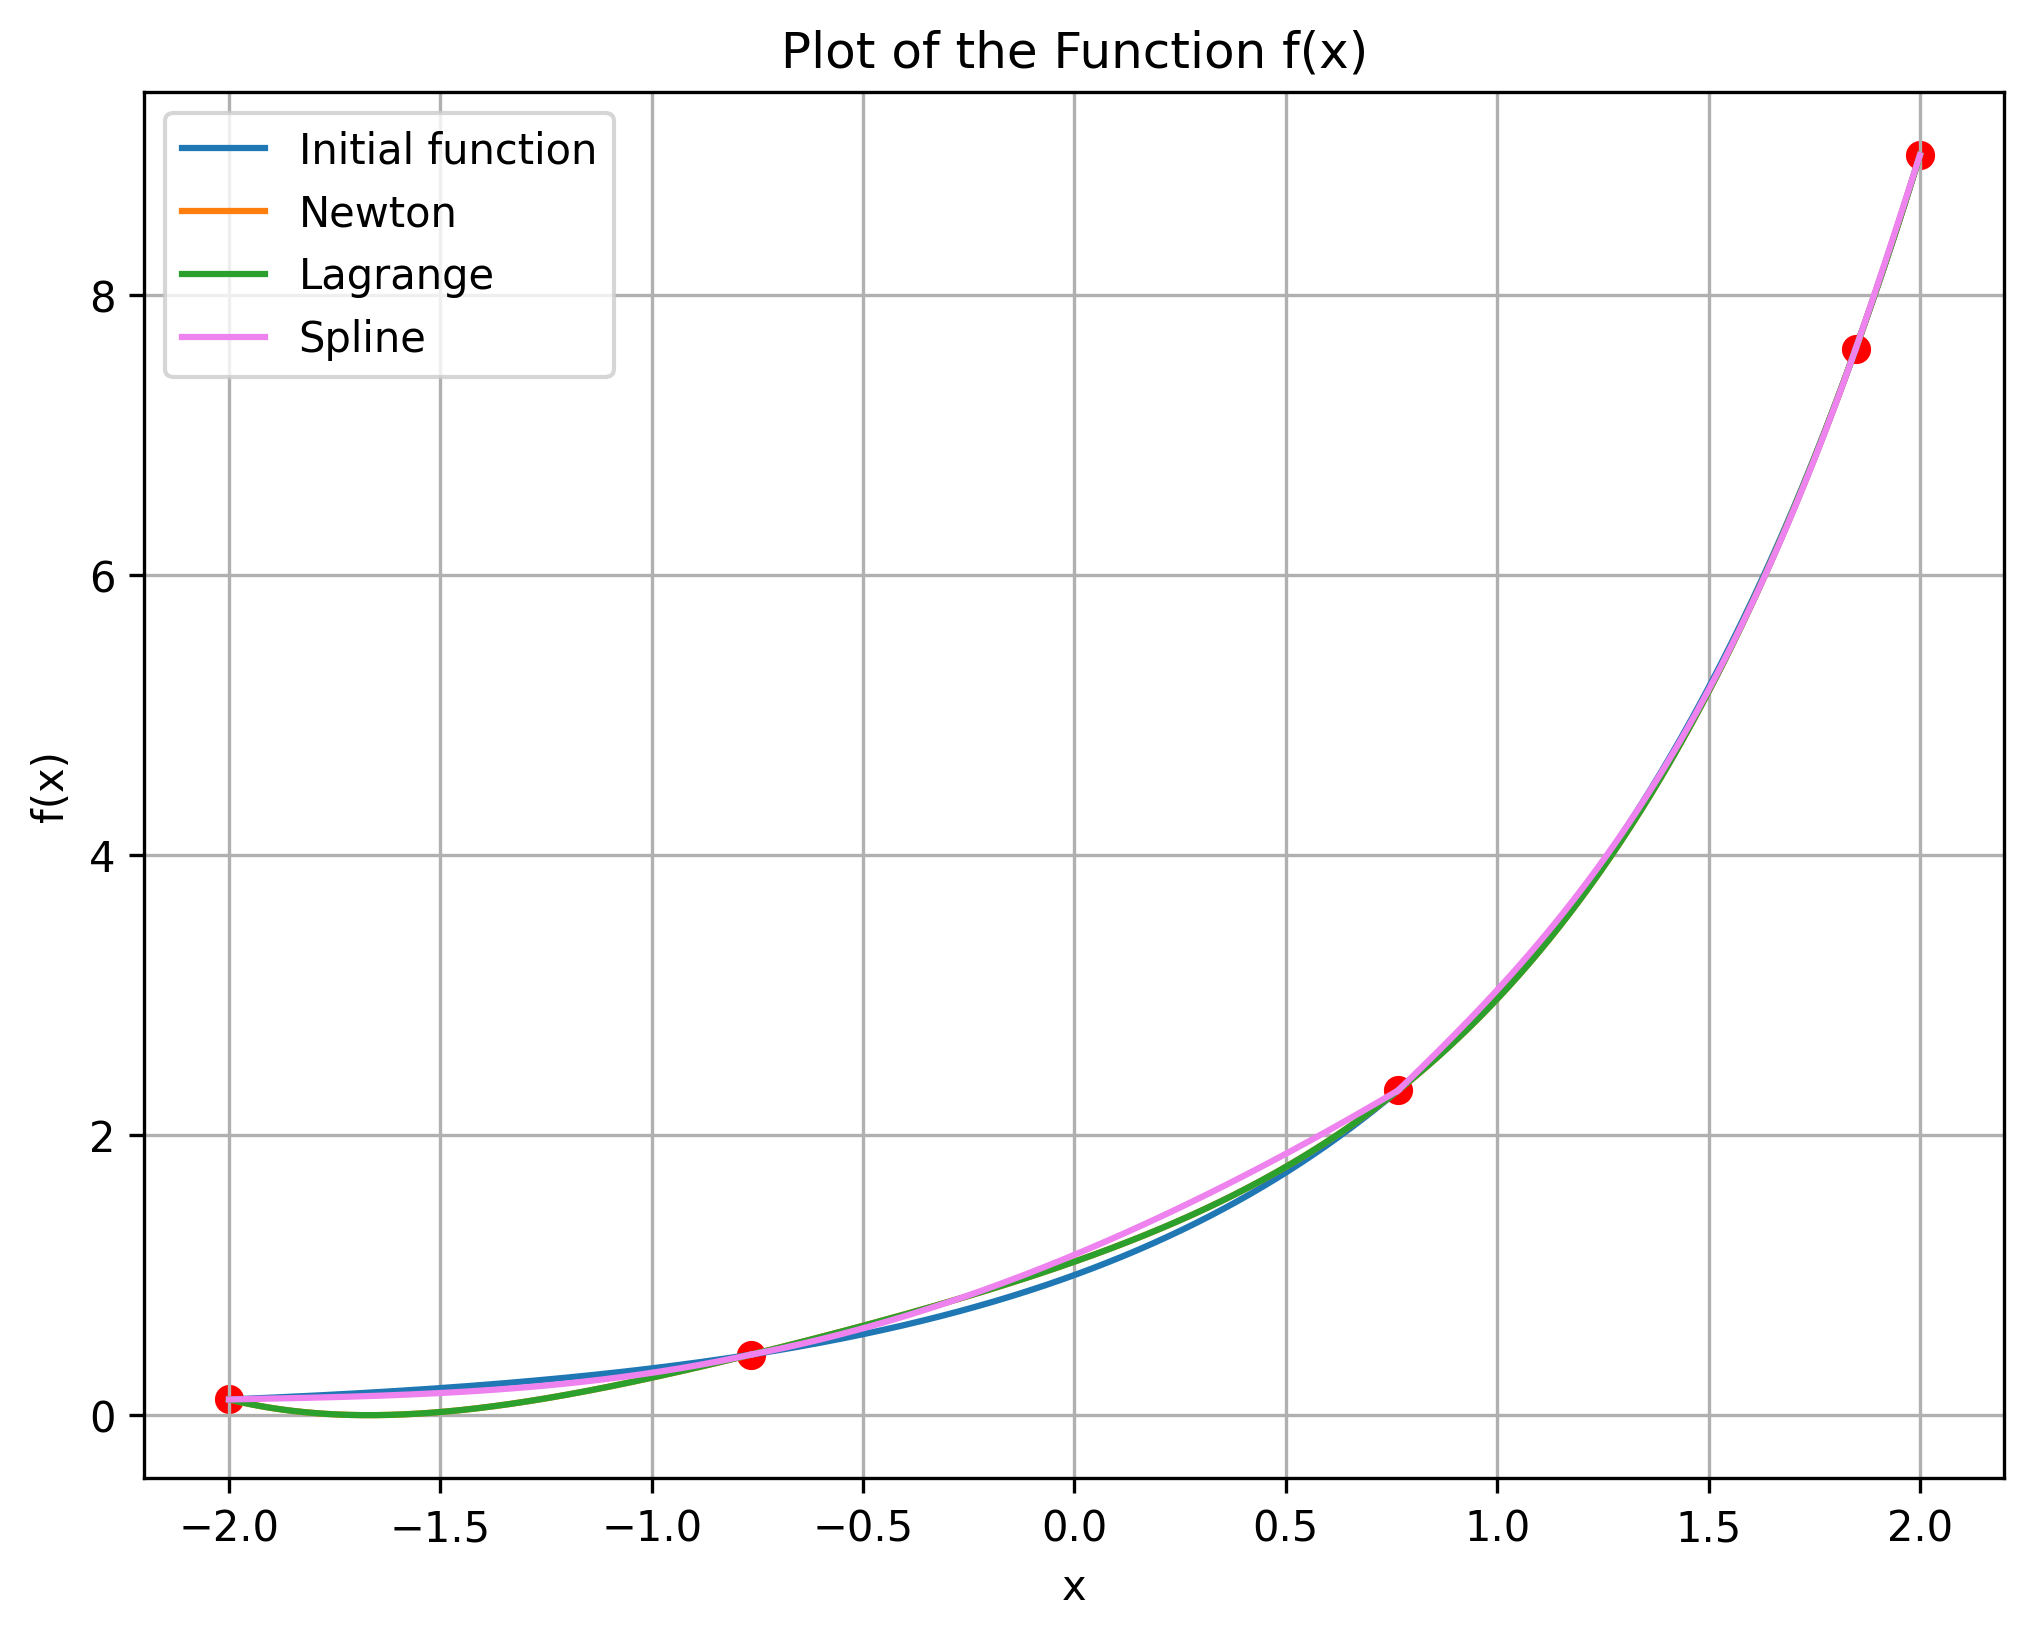
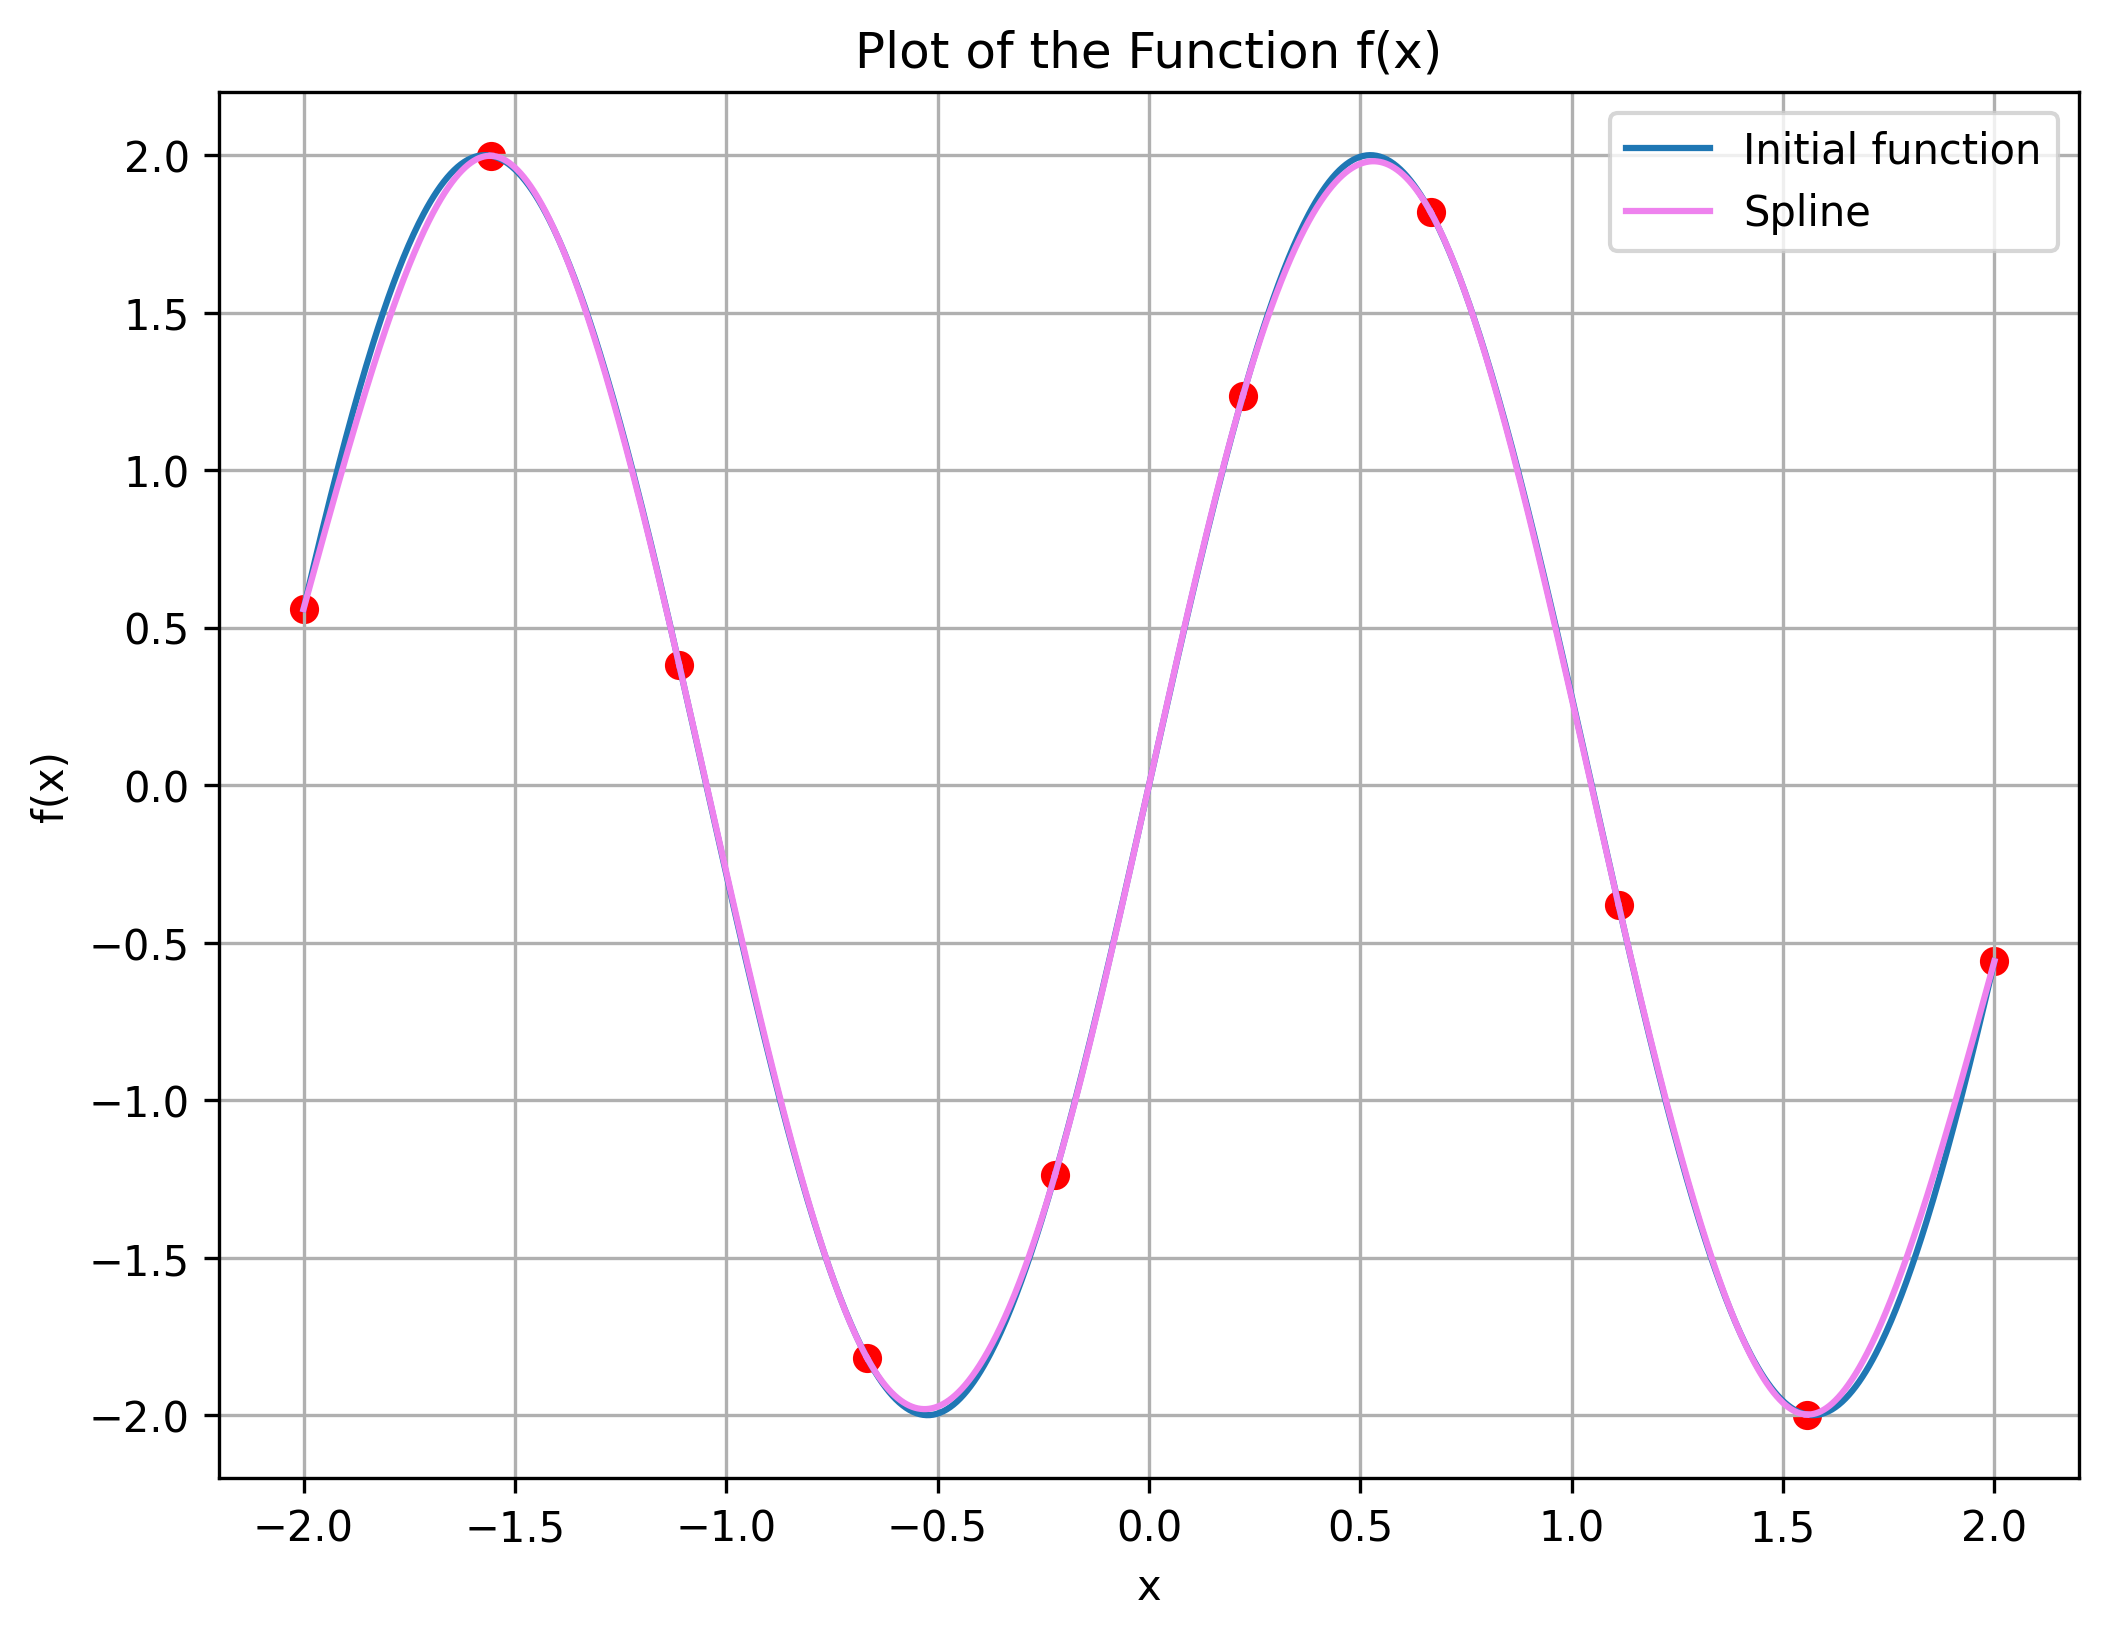
fixed newton and lagrange interpolation

diff --git a/lab5/code/lagrange.py b/lab5/code/lagrange.py
@@ -13,7 +13,7 @@ def lagrange_interpolation(vals):
     for val in vals:
         v_prod_curr = v_product_except(v_prod, x, val)
         polynomial = polynomial + (v_prod_curr * val.function()) / (v.at(v_prod_curr, val.argument()))
-    return v.simplify(polynomial)
+    return polynomial
 
 
 def v_product(vals, x):

diff --git a/lab5/code/plot.py b/lab5/code/plot.py
@@ -9,11 +9,11 @@ import spline as sl
 
 def init_and_plot():
     x = sp.symbols('x')
-    expr = 3 ** x
+    expr = sp.sin(3*x) * 2
     a = -2
     b = 2
-    n = 5
-    strategy = 'O'
+    n = 10
+    strategy = 'E'
     plot(x, expr, a, b, n, strategy)
 
 

diff --git a/lab5/code/newton.py b/lab5/code/newton.py
@@ -36,7 +36,7 @@ def newton_interpolation(vals):
     for i in range(0, n):
         polynomial = polynomial + prod * table[0][i]
         prod = prod * (x - vals[i].argument())
-    return v.simplify(polynomial)
+    return polynomial
 
 
 def test():

diff --git a/lab5/code/spline.py b/lab5/code/spline.py
@@ -7,7 +7,7 @@ def diagonal_element(vals, i):
 
 
 def semi_diagonal_element(vals, i):
-    return (vals[i].argument()) / 6
+    return (get_h(vals, i)) / 6
 
 
 def define_a(vals):
